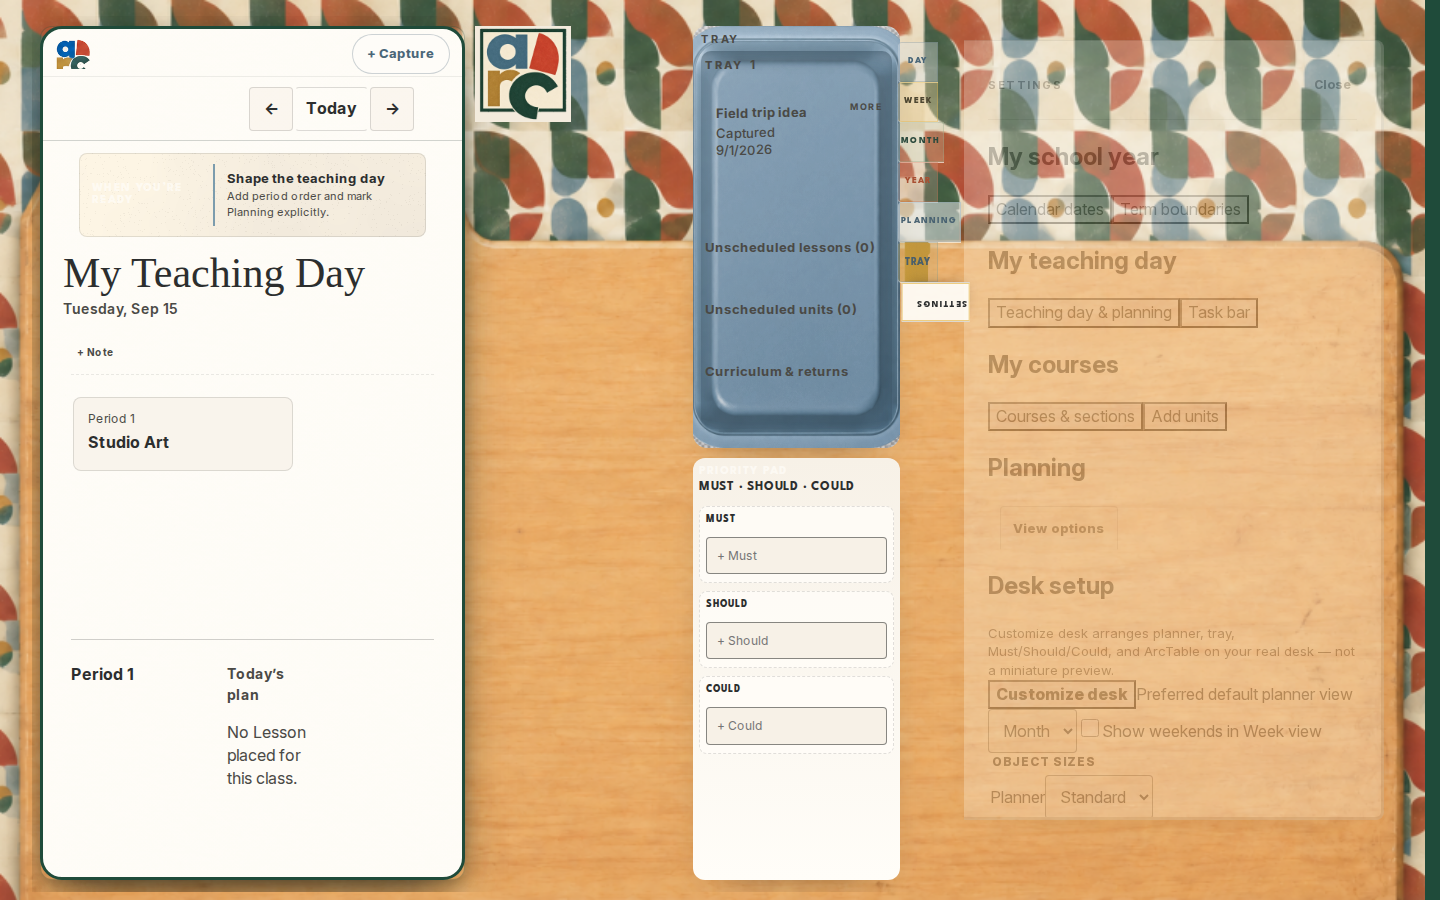
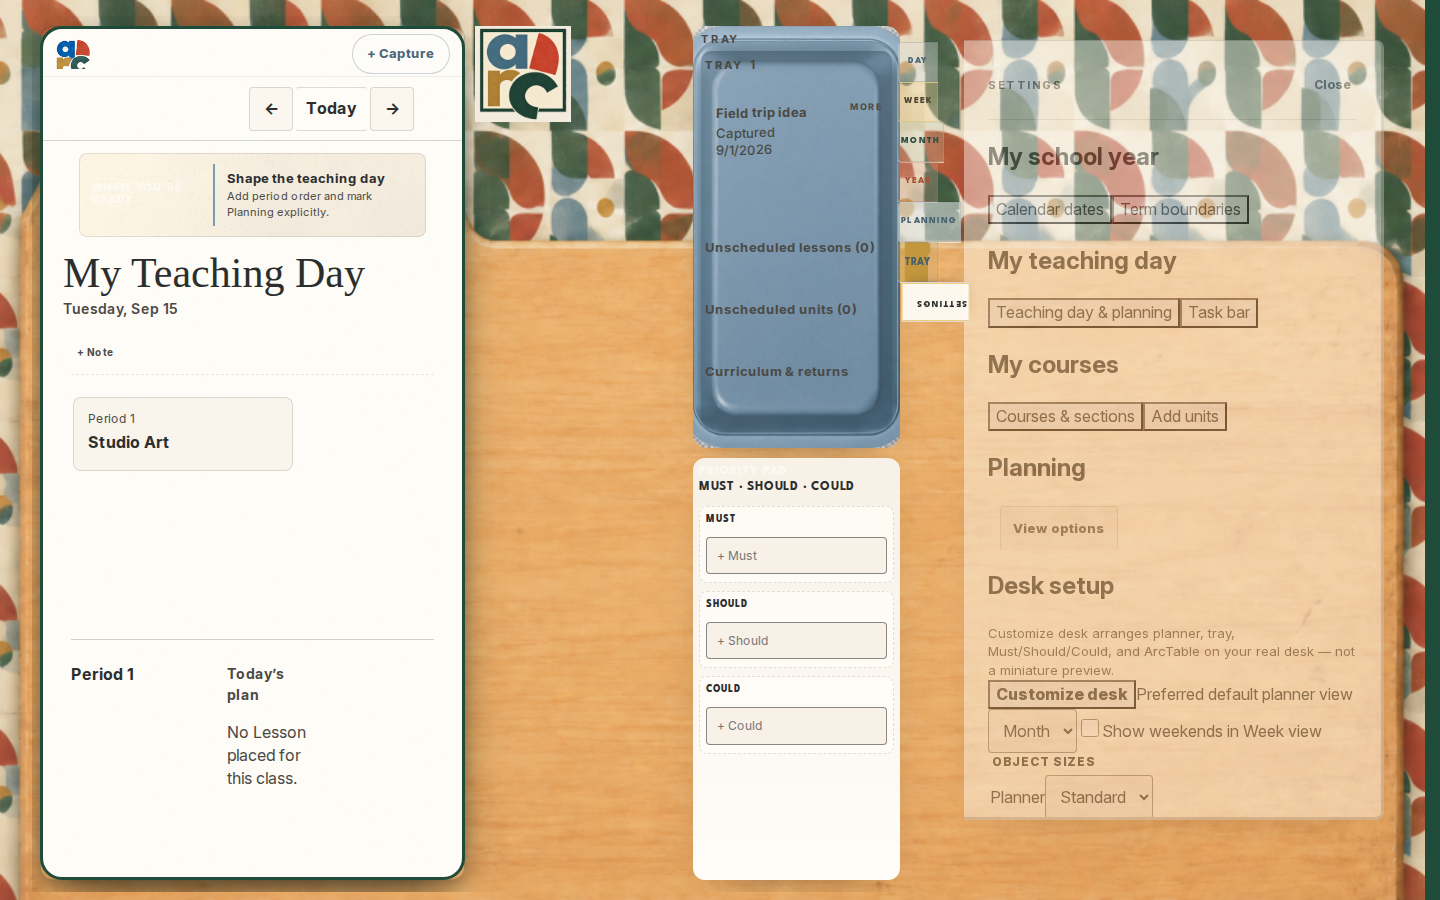
fix(desk): restore Customize desk / Done IA aligned with ArcTable edit mode
Reconcile b0e12f0 desk setup copy with AT-001 integration; smokes use Done toolbar exit.

Changed region(s): [[0.6562, 0.0311, 0.9688, 0.9333]]

diff --git a/src/components/DeskEditToolbar.tsx b/src/components/DeskEditToolbar.tsx
@@ -48,7 +48,7 @@ export function DeskEditToolbar({ selectedObject, sizes, onSizeChange, onDone, o
           {resetNeedsConfirm ? 'Confirm reset desk' : 'Reset desk'}
         </button>
         <button type="button" className="b01-settings-action b01-settings-action--primary" onClick={onDone}>
-          Pin it down
+          Done
         </button>
       </div>
     </div>
